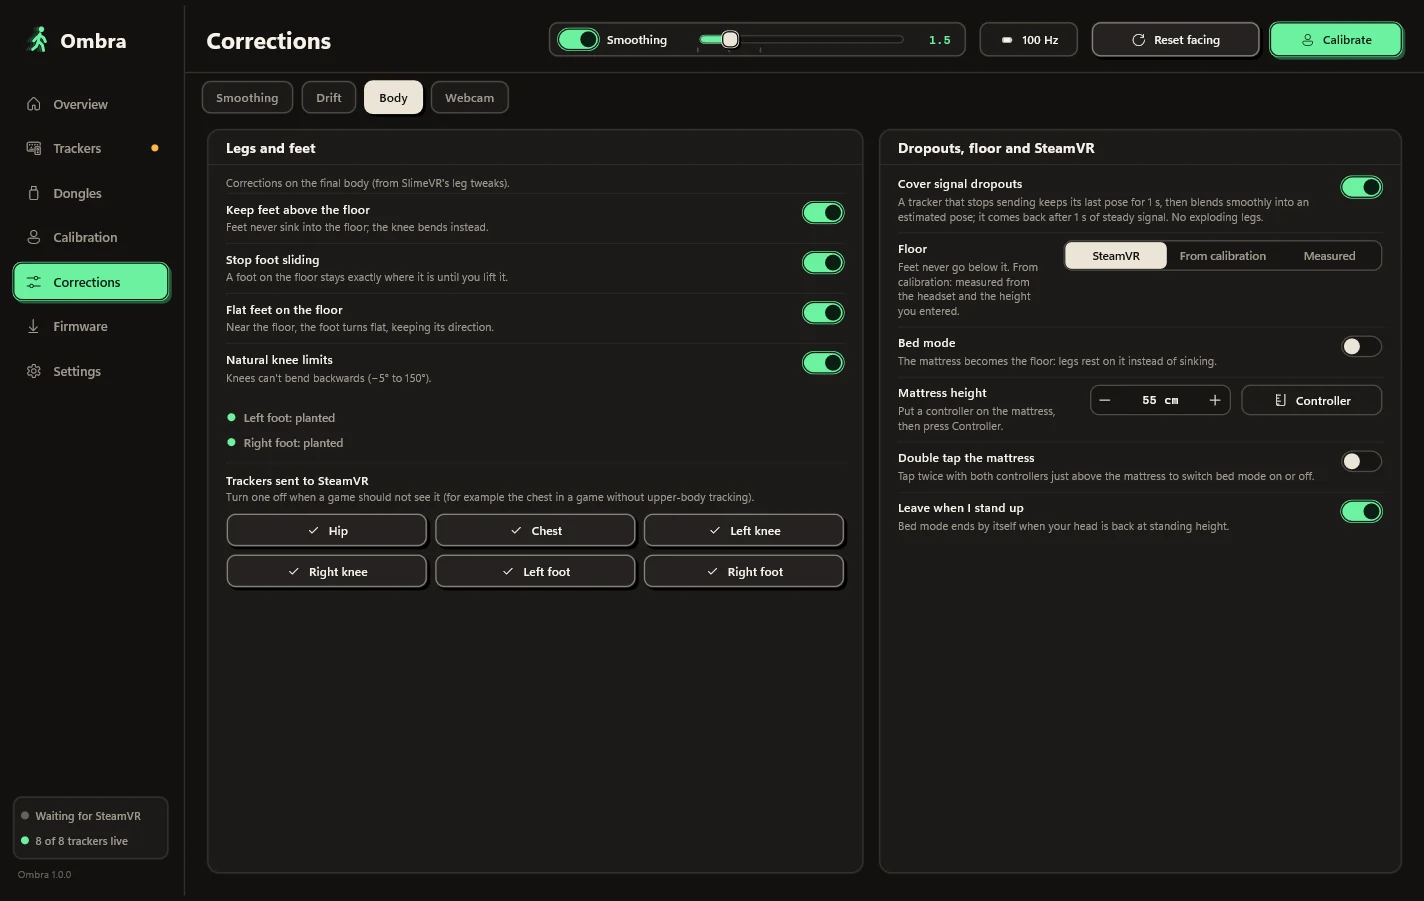
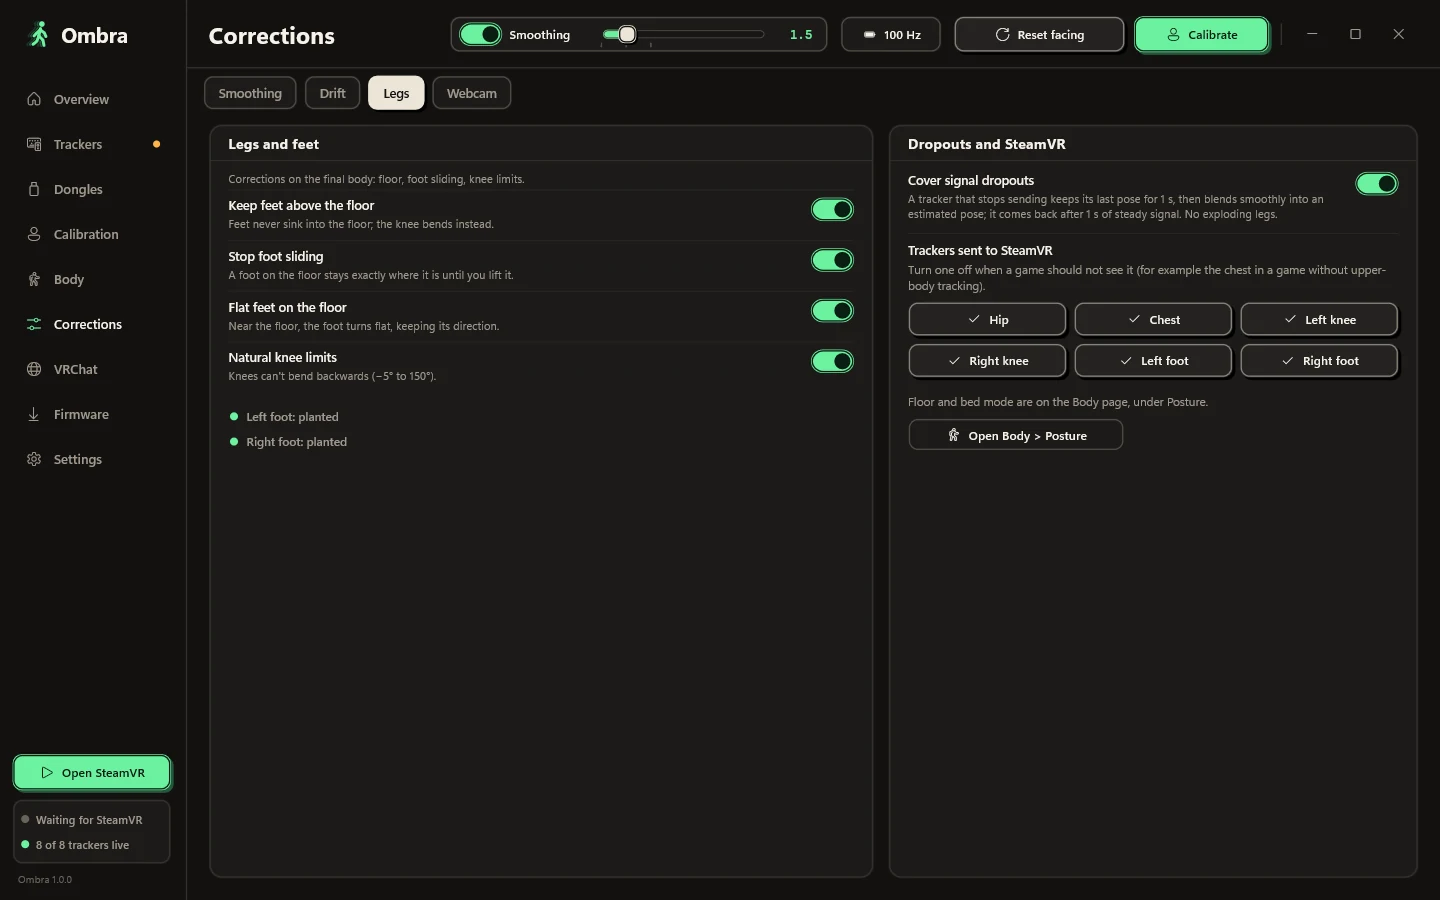
Site: fresh screenshots of Ombra 1.0.0
The tour shows the current app (9 pages, Legs tab, Open SteamVR button);
the calibration panel mentions the tiptoe step and body measuring, and
simulated now means a part without a tracker, as in the app.

diff --git a/site/index.html b/site/index.html
@@ -89,7 +89,7 @@
     <figure class="hero-shot">
       <div class="window">
         <div class="window-bar" aria-hidden="true"><i></i><i></i><i></i><span>Ombra</span></div>
-        <img src="assets/screens/home.webp" width="1424" height="901" alt="Ombra's Overview page: a live 3D body with eight trackers, the sensor list with battery and update rate, and the quick controls for smoothing, reset facing and calibrate." fetchpriority="high">
+        <img src="assets/screens/home.webp" width="1440" height="900" alt="Ombra's Overview page: a live 3D body with eight trackers, the sensor list with battery and update rate, and the quick controls for smoothing, reset facing and calibrate." fetchpriority="high">
       </div>
       <figcaption>The Overview page, running in demo mode.</figcaption>
     </figure>
@@ -164,7 +164,7 @@
     <header class="section-head">
       <p class="kicker">Tour</p>
       <h2>One window. Every page fits, no scrolling.</h2>
-      <p>These are real screenshots of Ombra running in its built-in demo mode, with eight simulated trackers on one GX2 and one GX6.</p>
+      <p>These are real screenshots of Ombra running in its built-in demo mode, with eight demo trackers on one GX2 and one GX6.</p>
     </header>
 
     <div class="tour">
@@ -182,14 +182,14 @@
       <div class="panel" role="tabpanel" id="p-home" aria-labelledby="t-home">
         <div class="panel-copy">
           <h3>See your body, live</h3>
-          <p>The Overview shows the body Ombra builds from your sensors and headset, in front, side or free 3D view. Each tracker is colour-coded: tracked, estimated, or signal lost.</p>
+          <p>The Overview shows the body Ombra builds from your sensors and headset, in front, side or free 3D view. Each tracker is colour-coded: tracked, simulated (no tracker there), or signal lost.</p>
           <ul class="ticks">
             <li>Sensor list with battery, rate and signal at a glance</li>
             <li>Signal chart: raw steps against what SteamVR receives</li>
             <li>Smoothing, Reset facing and Calibrate are always one click away</li>
           </ul>
         </div>
-        <div class="window"><img loading="lazy" src="assets/screens/home.webp" width="1424" height="901" alt="Overview page with the live 3D body and the sensor list."></div>
+        <div class="window"><img loading="lazy" src="assets/screens/home.webp" width="1440" height="900" alt="Overview page with the live 3D body and the sensor list."></div>
       </div>
 
       <div class="panel" role="tabpanel" id="p-trackers" aria-labelledby="t-trackers" hidden>
@@ -202,7 +202,7 @@
             <li>Identify a tracker, and Ombra remembers each one's settings</li>
           </ul>
         </div>
-        <div class="window"><img loading="lazy" src="assets/screens/trackers.webp" width="1424" height="901" alt="Trackers page with the tracker list and the detail panel for the chest tracker."></div>
+        <div class="window"><img loading="lazy" src="assets/screens/trackers.webp" width="1440" height="900" alt="Trackers page with the tracker list and the detail panel for the chest tracker."></div>
       </div>
 
       <div class="panel" role="tabpanel" id="p-dongles" aria-labelledby="t-dongles" hidden>
@@ -215,20 +215,20 @@
             <li>Find newly plugged-in dongles with one click</li>
           </ul>
         </div>
-        <div class="window"><img loading="lazy" src="assets/screens/dongles.webp" width="1424" height="901" alt="Dongles page showing a GX2 and a GX6 with their modules, slots and channels."></div>
+        <div class="window"><img loading="lazy" src="assets/screens/dongles.webp" width="1440" height="900" alt="Dongles page showing a GX2 and a GX6 with their modules, slots and channels."></div>
       </div>
 
       <div class="panel" role="tabpanel" id="p-calib" aria-labelledby="t-calib" hidden>
         <div class="panel-copy">
           <h3>Calibration in two poses</h3>
-          <p>Stand straight, then bend into a ski pose. About six seconds in total, and Ombra reports each body segment as it aligns.</p>
+          <p>Stand straight, then bend into a ski pose; with foot trackers, rise on your tiptoes too. A few seconds in total, and Ombra reports each body segment as it aligns.</p>
           <ul class="ticks">
             <li>Start it from VR: trigger twice, T-pose, or double-tap a tracker</li>
             <li>Resets facing when VRChat runs its own calibration</li>
-            <li>Measures your height from the headset</li>
+            <li>Measure your body and the real floor by touching them with a controller</li>
           </ul>
         </div>
-        <div class="window"><img loading="lazy" src="assets/screens/calib.webp" width="1424" height="901" alt="Calibration page with the two pose cards, aligned segments and VR start options."></div>
+        <div class="window"><img loading="lazy" src="assets/screens/calib.webp" width="1440" height="900" alt="Calibration page with the pose cards, aligned segments, VR start options and keyboard shortcuts."></div>
       </div>
 
       <div class="panel" role="tabpanel" id="p-smooth" aria-labelledby="t-smooth" hidden>
@@ -241,7 +241,7 @@
             <li>Can also smooth other IMU trackers in SteamVR, if you choose</li>
           </ul>
         </div>
-        <div class="window"><img loading="lazy" src="assets/screens/tuning.webp" width="1424" height="901" alt="Corrections page, Smoothing tab, with presets, sliders and per-tracker styles."></div>
+        <div class="window"><img loading="lazy" src="assets/screens/tuning.webp" width="1440" height="900" alt="Corrections page, Smoothing tab, with presets, sliders and per-tracker styles."></div>
       </div>
 
       <div class="panel" role="tabpanel" id="p-drift" aria-labelledby="t-drift" hidden>
@@ -254,7 +254,7 @@
             <li>Learns from each Reset facing you press</li>
           </ul>
         </div>
-        <div class="window"><img loading="lazy" src="assets/screens/tuning-drift.webp" width="1424" height="901" alt="Corrections page, Drift tab, with drift options and a live per-segment table."></div>
+        <div class="window"><img loading="lazy" src="assets/screens/tuning-drift.webp" width="1440" height="900" alt="Corrections page, Drift tab, with drift options and a live per-segment table."></div>
       </div>
 
       <div class="panel" role="tabpanel" id="p-body" aria-labelledby="t-body" hidden>
@@ -263,11 +263,11 @@
           <p>Corrections on the final body keep it believable: feet stay above the floor, planted feet don't slide, and knees never bend backwards.</p>
           <ul class="ticks">
             <li>Covers short signal dropouts with a smooth estimated pose</li>
-            <li>Bed mode: the mattress becomes the floor</li>
+            <li>Bed mode on the Body page: the mattress becomes the floor</li>
             <li>Choose which trackers SteamVR sees, per game</li>
           </ul>
         </div>
-        <div class="window"><img loading="lazy" src="assets/screens/tuning-body.webp" width="1424" height="901" alt="Corrections page, Body tab, with leg and floor options and bed mode."></div>
+        <div class="window"><img loading="lazy" src="assets/screens/tuning-body.webp" width="1440" height="900" alt="Corrections page, Legs tab, with the leg options, dropout cover and the trackers SteamVR sees."></div>
       </div>
 
       <div class="panel" role="tabpanel" id="p-fw" aria-labelledby="t-fw" hidden>
@@ -280,7 +280,7 @@
             <li>Every file is checked (SHA-256) before it is used</li>
           </ul>
         </div>
-        <div class="window"><img loading="lazy" src="assets/screens/firmware.webp" width="1424" height="901" alt="Firmware page with every tracker and dongle and its firmware version."></div>
+        <div class="window"><img loading="lazy" src="assets/screens/firmware.webp" width="1440" height="900" alt="Firmware page with every tracker and dongle and its firmware version."></div>
       </div>
     </div>
   </div>
@@ -444,7 +444,7 @@
       </details>
       <details>
         <summary>Can I try it without trackers?</summary>
-        <p>Yes. Run <code>Ombra.exe --demo</code> for eight simulated trackers on a GX2 and a GX6. The demo never touches COM ports, Bluetooth, SteamVR or your settings.</p>
+        <p>Yes. Run <code>Ombra.exe --demo</code> for eight demo trackers on a GX2 and a GX6. The demo never touches COM ports, Bluetooth, SteamVR or your settings.</p>
       </details>
       <details>
         <summary>Is it affiliated with Shiftall or Valve?</summary>
